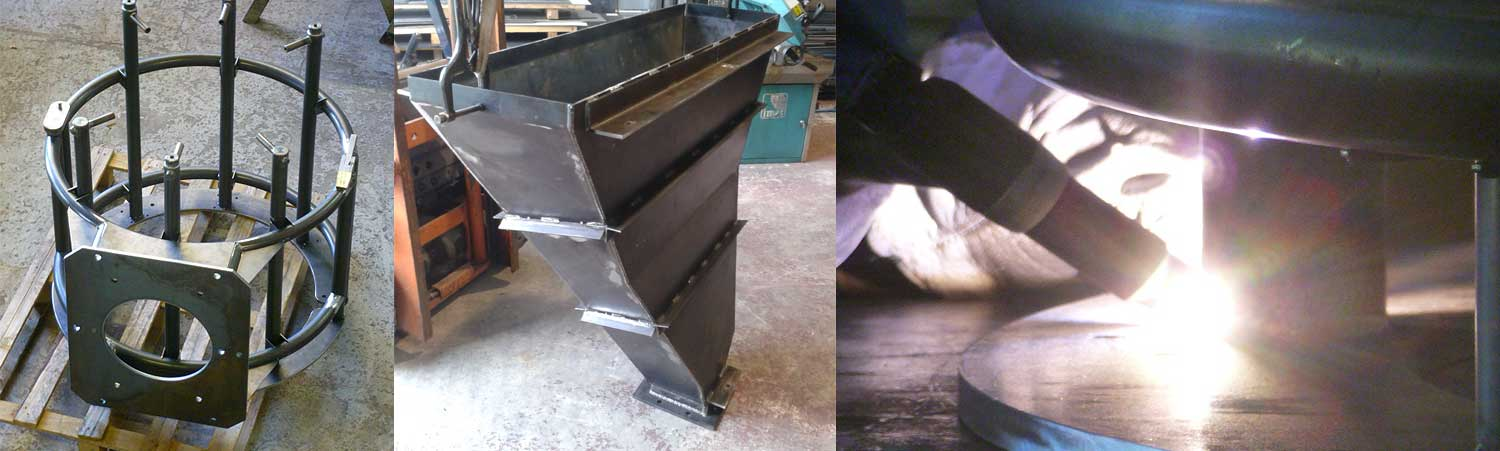
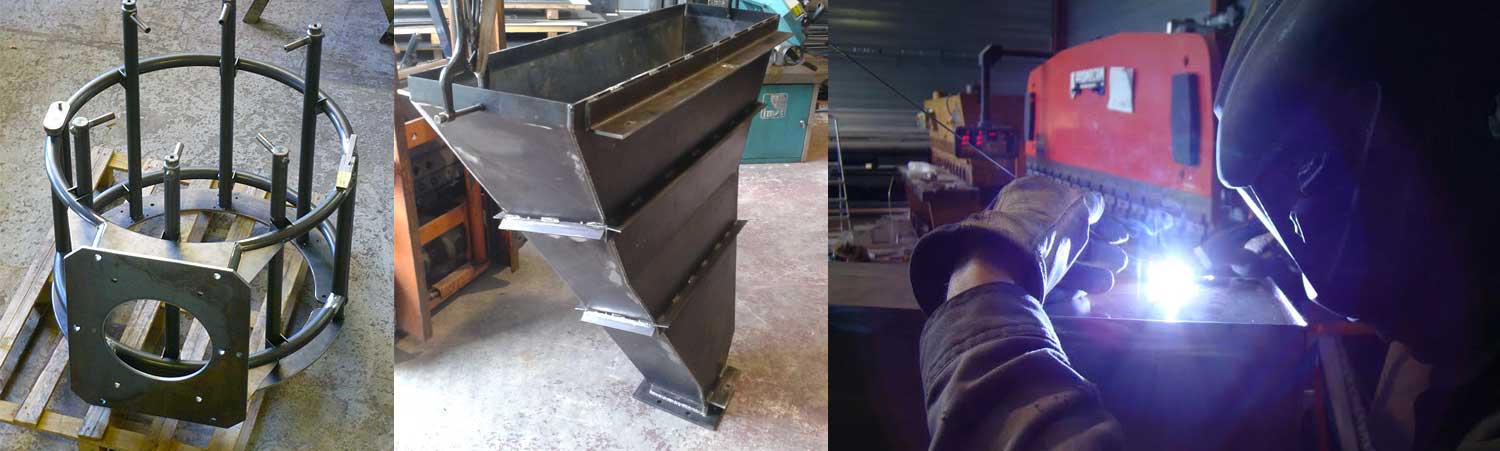
modif slider2 + ajout poste a souder

diff --git a/equipements.php b/equipements.php
@@ -54,6 +54,14 @@
 			<hr>
 
 		</div>
+		<div class="large-12 columns">
+
+			<h3>Découpeur Plasma Hypertherm powermax 45</h3>
+			
+			<img alt="" src="img/DecoupeurPlasma.jpg">
+			<hr>
+
+		</div>
 
 	</div>
 	
